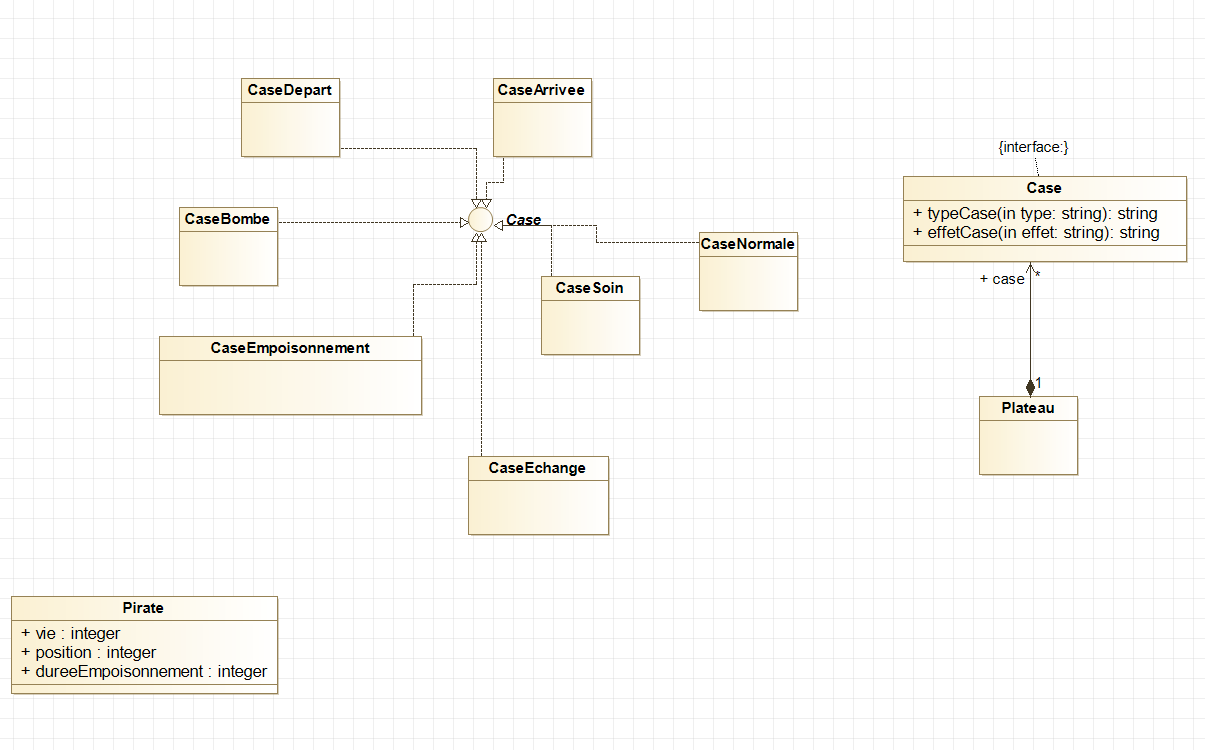
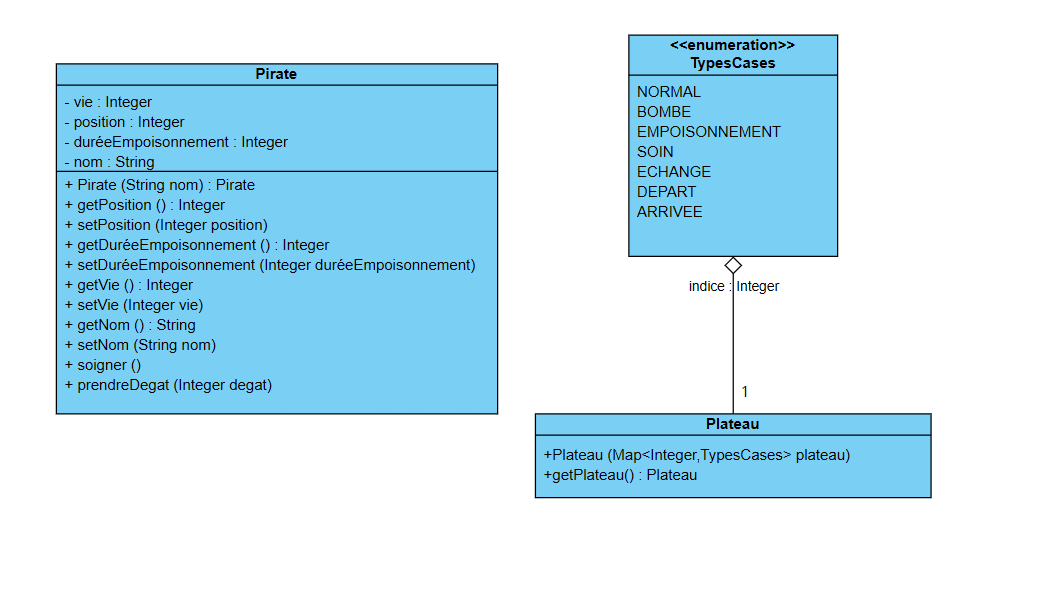
uml : Refonte des diagrammes de classe ControleurPirate et Entité

diff --git a/Code/src/test/java/Entite/Pirate.java b/Code/src/test/java/Entite/Pirate.java
@@ -33,6 +33,15 @@ public class Pirate {
 	public void setVie(int vie) {
 		this.vie = vie;
 	}
+        
+        public String getNom() {
+            return nom;
+        }
+        
+        public void setNom(String nom) {
+            this.nom = nom;
+        }
+        
 	public void soigner() {
 		if(vie<5) {
 			vie++;
@@ -42,13 +51,5 @@ public class Pirate {
 	public void prendreDegats(int degats) {
 		this.vie -= degats;
 	}
-        
-        public String getNom() {
-            return nom;
-        }
-        
-        public void setNom(String nom) {
-            this.nom = nom;
-        }
 	//
 }

diff --git a/Code/src/test/java/Controleurs/ControlJeuPirate.java b/Code/src/test/java/Controleurs/ControlJeuPirate.java
@@ -3,10 +3,5 @@ package Controleurs;
 import Entite.Pirate;
 
 public class ControlJeuPirate{
-	//Elouan
-	public static Pirate creationPirate(String nom) {
-		Pirate pirate= new Pirate(nom);
-		return pirate;
-	}
-	//
+	
 }
